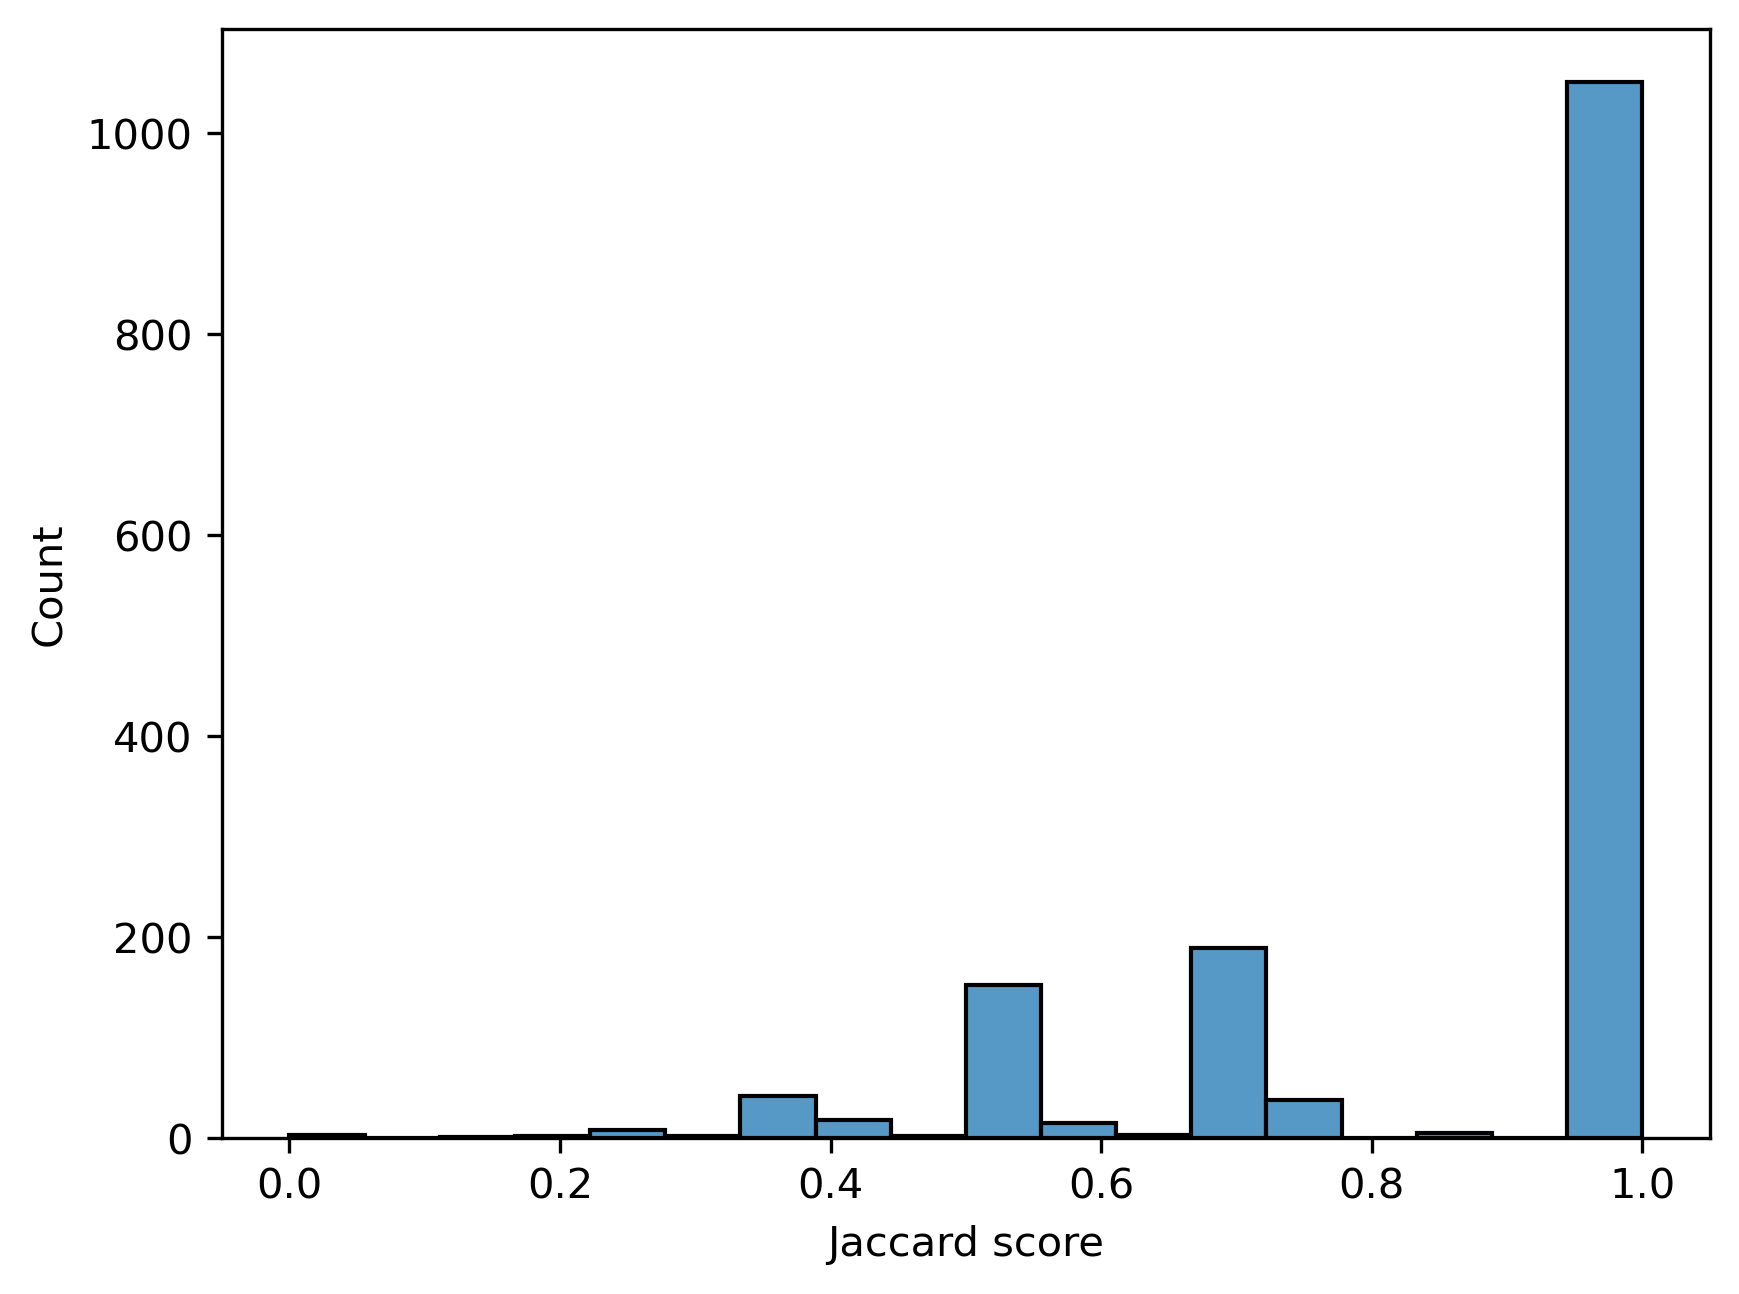
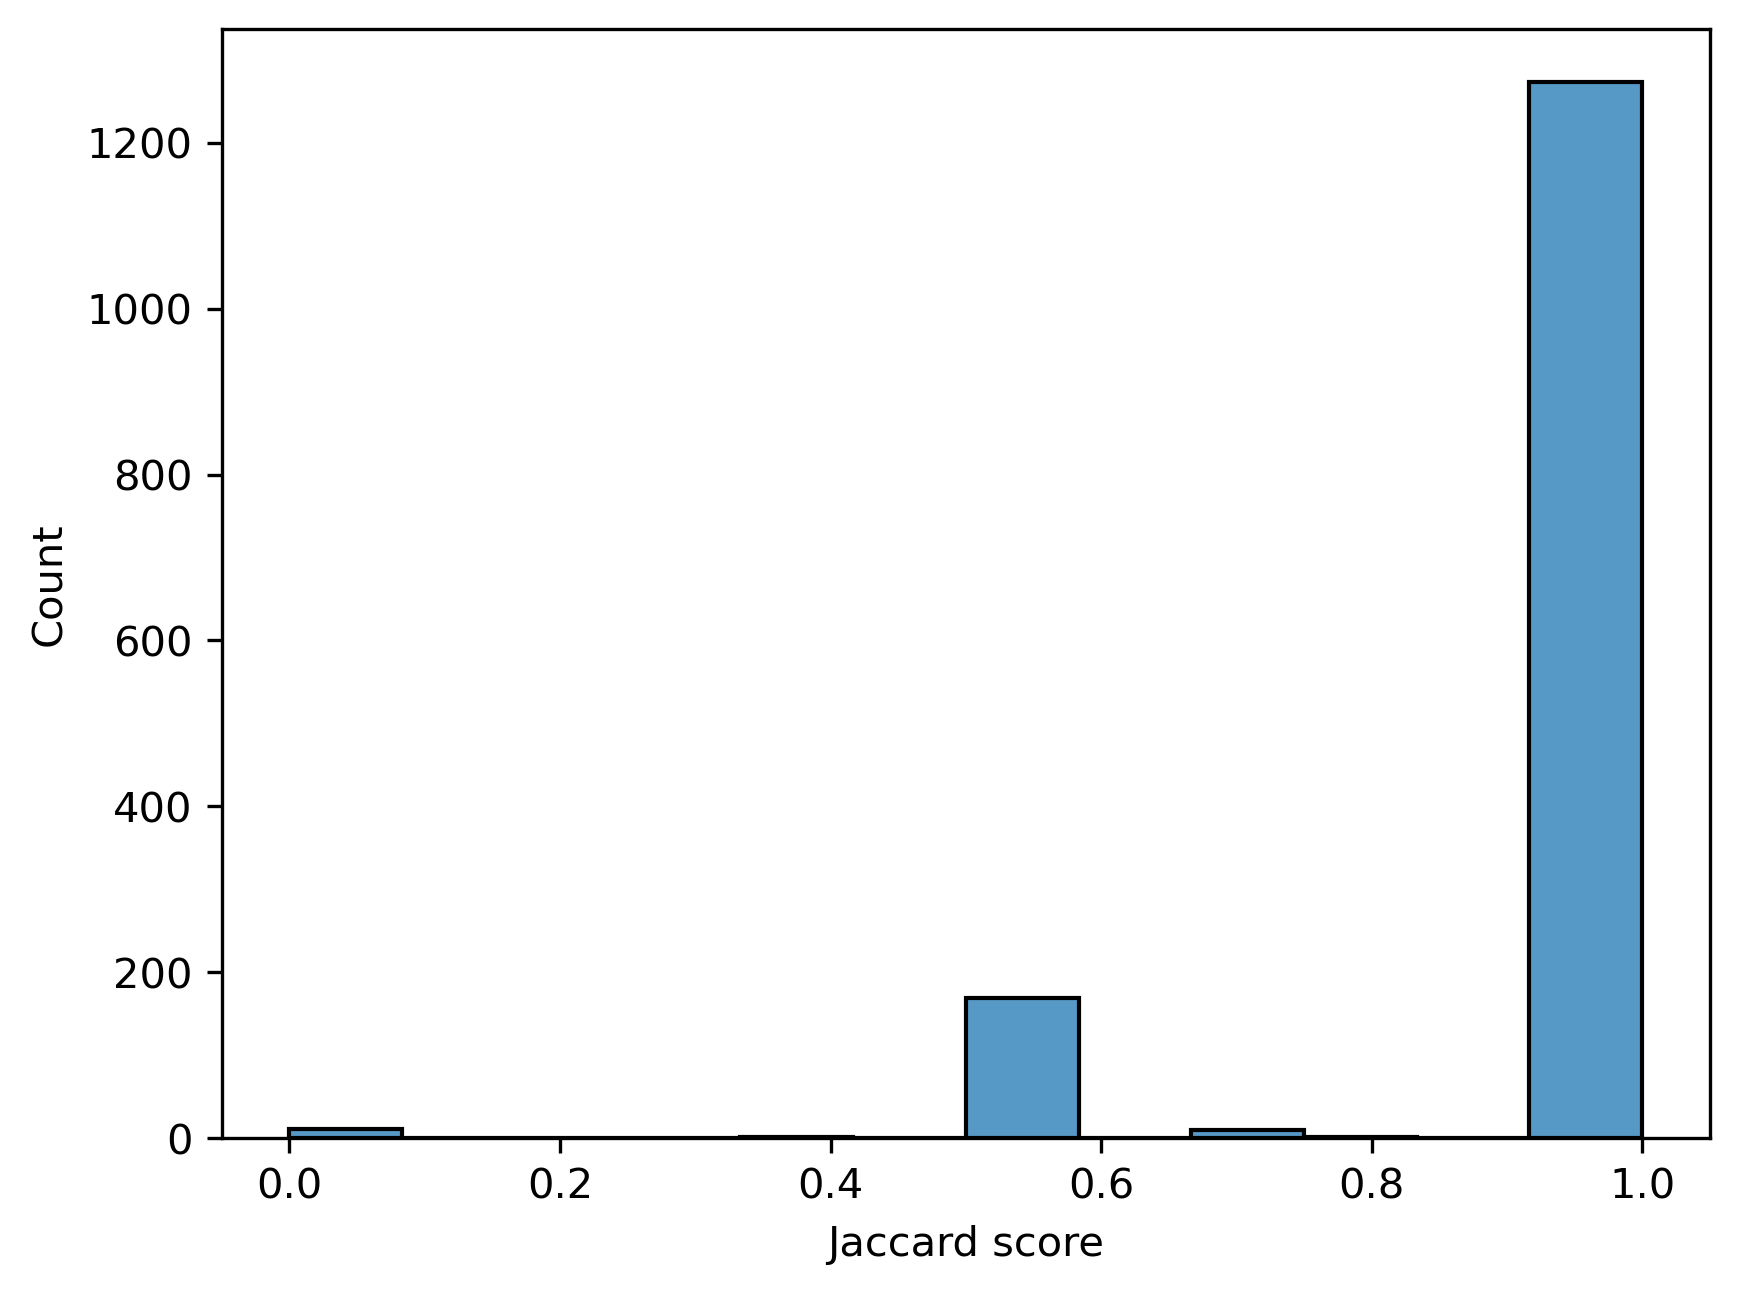
reran hmmer both scanned and filtered for correct e value

diff --git a/learn2therm/hmmer.py b/learn2therm/hmmer.py
@@ -101,7 +101,9 @@ def run_pyhmmer(
         output_file: str = None,
         cpu: int = 4,
         scan: bool=True,
-        eval_con: float = 1e-10):
+        eval_con: float = 1e-10,
+        **kwargs
+    ):
     """
     Run HMMER's hmmscan program on a set of input sequences using with HMMs from a database.
     Parameters
@@ -170,12 +172,22 @@ def run_pyhmmer(
         pass
 
     # HMMscan execution with or without saving output to file
-    if scan:
-        logger.info(f"Running hmmscan... {len(seqs)} sequences against {len(targets)} HMMs, using {cpu} CPUs")
-        all_hits = pyhmmer.hmmer.hmmscan(seqs, targets, cpus=cpu, E=eval_con)
+    if hasattr(seqs, '__len__'):
+        seqs_size = len(seqs)
     else:
-        logger.info(f"Running hmmsearch... {len(targets)} HMMs against {len(seqs)} seqs, using {cpu} CPUs")
-        all_hits = pyhmmer.hmmer.hmmsearch(targets, seqs, cpus=cpu, E=eval_con)
+        seqs_size = "In file, unknown length"
+
+    if hasattr(targets, '__len__'):
+        targets_size = len(targets)
+    else:
+        targets_size = "In file, unknown length"
+
+    if scan:
+        logger.info(f"Running hmmscan... {seqs_size} sequences against {targets_size} HMMs, using {cpu} CPUs")
+        all_hits = pyhmmer.hmmer.hmmscan(seqs, targets, cpus=cpu, incE=eval_con, **kwargs)
+    else:
+        logger.info(f"Running hmmsearch... {targets_size} HMMs against {seqs_size} seqs, using {cpu} CPUs")
+        all_hits = pyhmmer.hmmer.hmmsearch(targets, seqs, cpus=cpu, incE=eval_con, **kwargs)
     # check if we should save the output
     if output_file is not None:
         with open(output_file, "wb") as dst:
@@ -205,6 +217,10 @@ def parse_pyhmmer(all_hits, chunk_query_ids, scanned: bool = True):
     # iterate over each protein hit
     for top_hits in all_hits:
         for hit in top_hits:
+            # check e value
+            if hit.evalue > top_hits.incE:
+                continue
+
             # extract the query and accession IDs and decode the query ID
             if scanned:
                 query_id = hit.hits.query_name.decode('utf-8')

diff --git a/pipeline/s2.6_hmmer_hait.py b/pipeline/s2.6_hmmer_hait.py
@@ -65,7 +65,7 @@ if __name__ == '__main__':
 
     # Run hmmscan
     all_hits = learn2therm.hmmer.run_pyhmmer(
-        seqs=seqblock, hmms_path=HMM_PATH, prefetch=False, cpu=params['njobs'], eval_con=params['e_value'])
+        seqs=seqblock, hmms_path=HMM_PATH, prefetch=False, cpu=params['njobs'], eval_con=params['e_value'], scan=params['scan'])
     logger.info("HMMER hmmscan completed")
 
     # Parse the output
@@ -73,13 +73,22 @@ if __name__ == '__main__':
     logger.info(f"{parsed_hits_df}")
     logger.info("Parsed the HMMER output")
 
+    # calculate the number of domains found per protein
+    parsed_hits_df['n_domains'] = parsed_hits_df['accession_id'].apply(lambda x: len(x.split(';')))
+    # save a hist of accessions counts found
+    fig, ax = plt.subplots()
+    sns.histplot(data=parsed_hits_df, x='n_domains', ax=ax)
+    ax.set_xlabel(f'Number of domains found meeting E < {params["e_value"]}')
+    fig.savefig('./data/validation/hmmer/hait_n_domains.png', dpi=300, bbox_inches='tight')
+
     # Merge the parsed output with the original DataFrame
     df = df.merge(parsed_hits_df.rename(columns={'query_id': 'meso_pid', 'accession_id': 'meso_accession'}), on='meso_pid', how='left')
     df = df.merge(parsed_hits_df.rename(columns={'query_id': 'thermo_pid', 'accession_id': 'thermo_accession'}), on='thermo_pid', how='left')
-    
+
     logger.info("Parsed hits merged with the original data")
     assert df['meso_accession'].isna().sum() == 0
     assert df['thermo_accession'].isna().sum() == 0
+
 
     # Apply evaluation function to each row
     jaccard_threshold = params['jaccard_threshold']
